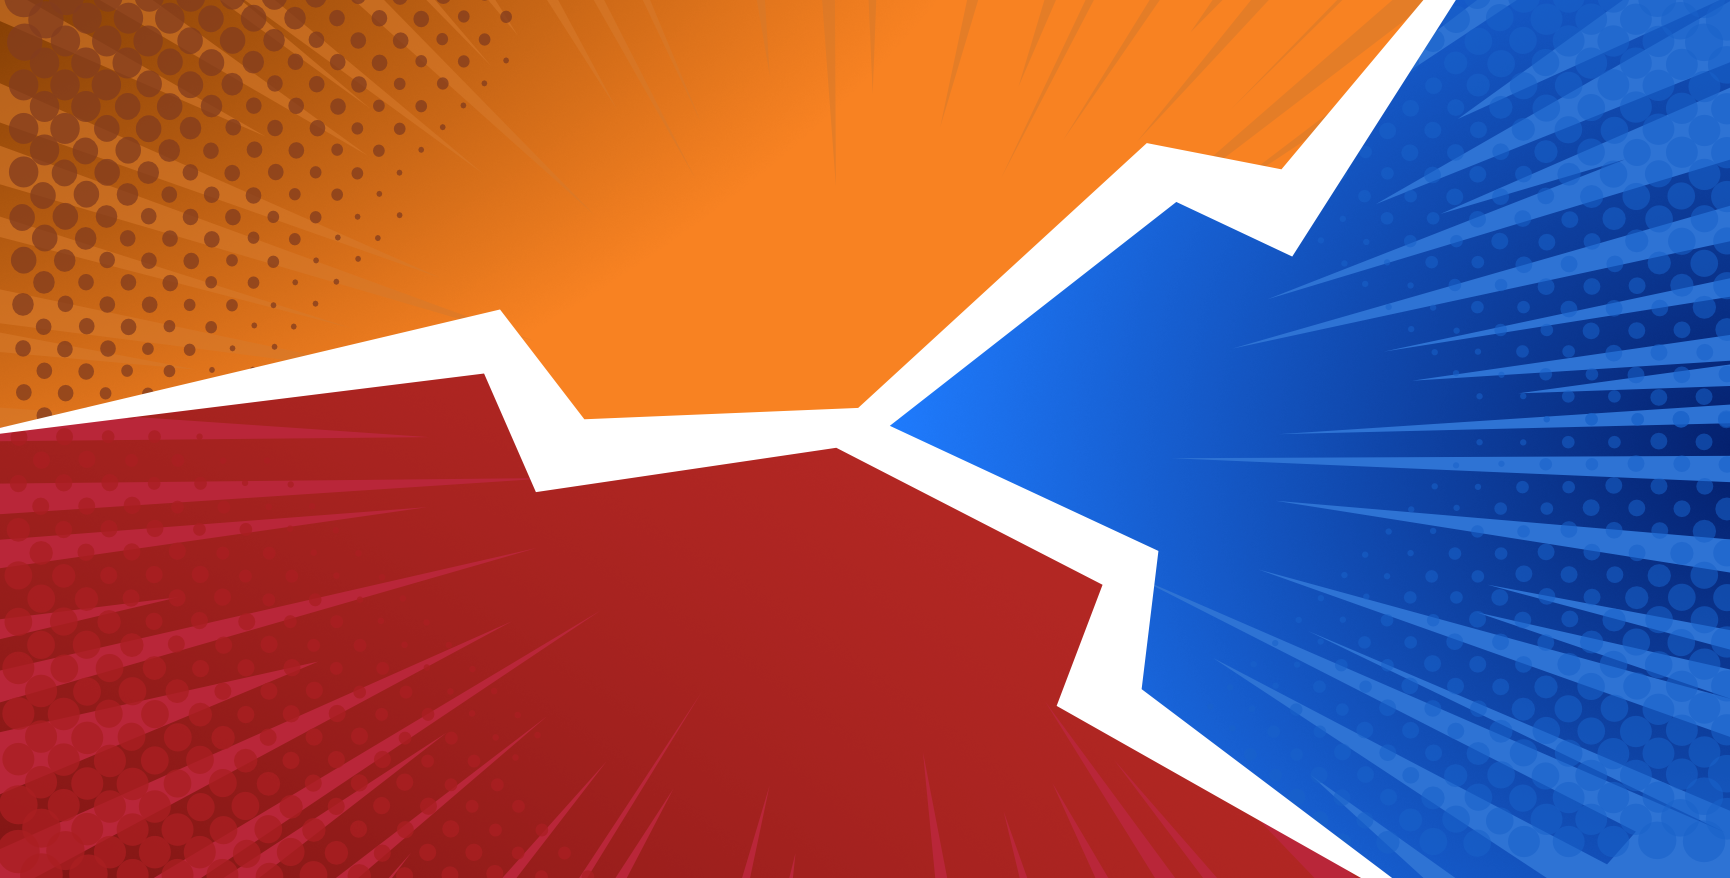
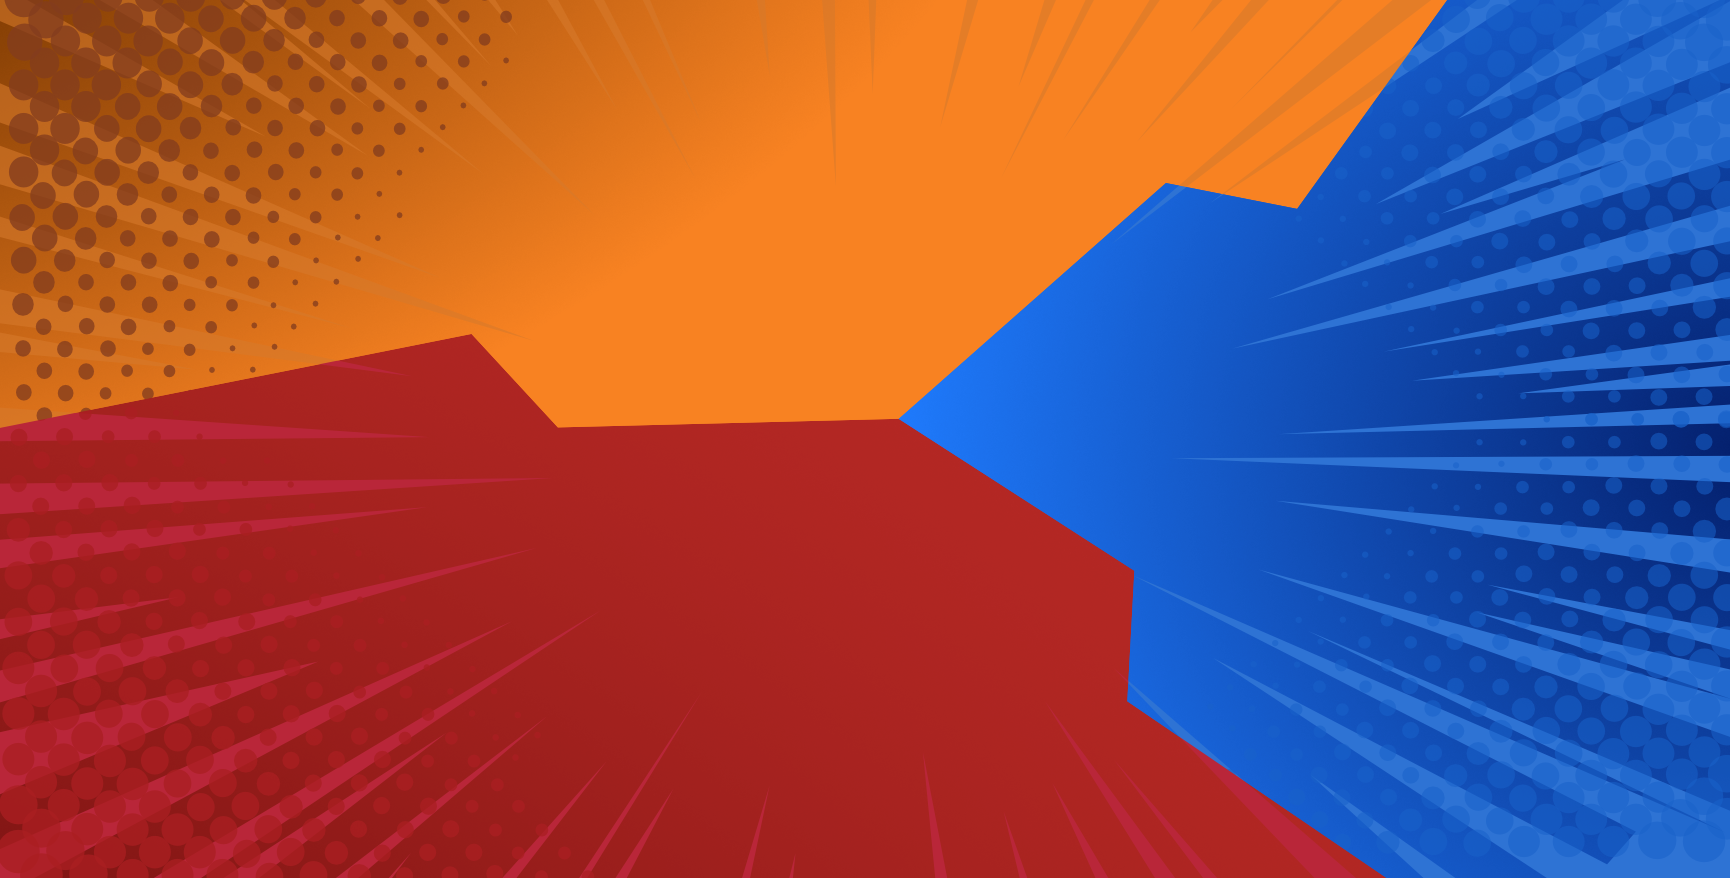
Add news Bg without lightening/slash

Changed region(s): [[0.0, 0.0, 0.8428, 1.0]]

diff --git a/styleThemeChoice.css b/styleThemeChoice.css
@@ -8,8 +8,7 @@
 
 body {
   display: flex;
-  justify-content: center;
-  align-items: center;
+  flex-direction: column;
   min-height: 100vh;
   font-family: 'Fredoka', sans-serif;
   background-image: url(img/Bg-rouge-new.png);
@@ -83,10 +82,10 @@ body {
 .loveImgdebase {
   display: block;
   position: absolute;
-  top: 60%;
-  height: 120%;
+  top: 70%;
+  height: 130%;
   width: 100%;
-  left: 50%;
+  left: 55%;
   transform-style: preserve-3d;
   transform: translate(-50%, -50%);
   z-index: 2;
@@ -188,7 +187,7 @@ body {
 .friendshipImgPos3 {
   display: block;
   position: absolute;
-  top: 60%;
+  top: 80%;
   height: 90%;
   width: 80%;
   left: 50%;
@@ -206,23 +205,40 @@ body {
   body {
     background-image: url(img/Bg-rouge-new-deskstop.png);
     background-size: cover;
+    display: flex;
   }
 
   .choiceCategories {
     font-size: 40px;
-    margin: 0px 20px 0px 20px;
   }
 
   .arrowLeft,
   .arrowRight {
-    width: 80px;
-    height: 80px;
+    width: 50px;
+    height: 50px;
     background: #27233a;
     border-radius: 50%;
   }
 
   .txtContainer {
-    font-size: 40px;
+    font-size: 30px;
+  }
+
+  .mainContainer {
+    display: flex;
+    justify-content: center;
+    align-items: center;
+  }
+
+  .sliderContainer {
+    display: flex;
+    align-items: center;
+    width: 40%;
+    flex-direction: row;
+  }
+
+  .choiceCategories {
+    font-size: 25px;
   }
 
   /*PARTIE CHANGEMENT PERSO*/
@@ -232,9 +248,9 @@ body {
   .loveImgdebase {
     display: block;
     position: absolute;
-    top: 100%;
+    top: 90%;
     height: 150%;
-    width: 50%;
+    width: 25%;
     left: 50%;
     transform-style: preserve-3d;
     transform: translate(-50%, -50%);
@@ -246,10 +262,10 @@ body {
     display: block;
     position: absolute;
     top: 30%;
-    height: 70%;
-    width: 25%;
+    height: 80%;
+    width: 15%;
     transform-style: preserve-3d;
-    left: 0;
+    left: 30%;
     z-index: 1;
     transition: 2s;
   }
@@ -273,20 +289,21 @@ body {
     display: block;
     position: absolute;
     top: 30%;
-    height: 70%;
-    width: 50%;
-    right: 0;
+    height: 60%;
+    width: 20%;
+    right: 20%;
     transform-style: preserve-3d;
     z-index: 1;
     transition: 1s;
+    pointer-events: none;
   }
 
   .jobImgPos2 {
     display: block;
     position: absolute;
     top: 100%;
-    height: 120%;
-    width: 90%;
+    height: 100%;
+    width: 30%;
     left: 50%;
     transform-style: preserve-3d;
     transform: translate(-50%, -50%);
@@ -299,7 +316,7 @@ body {
     position: absolute;
     top: 30%;
     height: 70%;
-    width: 50%;
+    width: 20%;
     left: 0;
     transform-style: preserve-3d;
     z-index: 1;
@@ -312,13 +329,14 @@ body {
   .friendImgPosdebase {
     display: block;
     position: absolute;
-    top: 40%;
+    top: 35%;
     height: 65%;
-    width: 35%;
+    width: 15%;
     transform-style: preserve-3d;
-    left: 0;
+    left: 20%;
     z-index: 1;
     transition: 1s;
+    pointer-events: none;
   }
 
   .friendshipImgPos2 {
@@ -327,9 +345,9 @@ body {
     top: 40%;
     top: 30%;
     height: 75%;
-    width: 35%;
+    width: 15%;
     transform-style: preserve-3d;
-    right: 0;
+    right: 25%;
     z-index: 1;
     transition: 1s;
   }
@@ -346,4 +364,11 @@ body {
     z-index: 2;
     transition: 1s;
   }
+}
+
+.themeChoiceSection {
+  display: flex;
+  flex-direction: column;
+  justify-content: center;
+  align-items: center;
 }

diff --git a/themeChoice.html b/themeChoice.html
@@ -4,11 +4,37 @@
     <meta charset="UTF-8" />
     <meta http-equiv="X-UA-Compatible" content="IE=edge" />
     <meta name="viewport" content="width=device-width, initial-scale=1.0" />
+        <link rel="stylesheet" href="style.css" />
     <link rel="stylesheet" href="styleThemeChoice.css" />
     <title>Carroussel</title>
   </head>
   <body>
-    <div class="mainContainer">
+
+    <nav class="navbar" role="navigation">
+      <div class="navbar__logo">
+        <h1>You&Me</h1>
+        <img class="cple" src="image/cple.png" alt="image-couple" />
+      </div>
+      <ul class="navbar__links">
+        <li class="navbar__link first">
+          <a href="index.html">Home</a>
+        </li>
+        <li class="navbar__link second">
+          <a href="themeChoice.html">Try new mode</a>
+        </li>
+        <li class="navbar__link third">
+          <a href="aboutUs.html">About us</a>
+        </li>
+        <li class="navbar__link four">
+          <a href="contact.html">Contact</a>
+        </li>
+      </ul>
+      <button class="burger">
+        <span class="bar"></span>
+      </button>
+    </nav>
+
+    <div class="mainContainer displayNone">
       <p class="txtContainer">
         Intéressé par vos relations amicales ? <br> Professionnelles ? Amoureuses ?
       </p>
@@ -56,7 +82,7 @@
           alt="Grapefruit slice atop a pile of other slices"
         /></div>
     </div>
-    <script src="main.js"></script>
     <script src="scriptThemeChoice.js"></script>
+    <script src="menuBurger.js"></script>
   </body>
 </html>

diff --git a/scriptThemeChoice.js b/scriptThemeChoice.js
@@ -116,16 +116,16 @@ precedant.addEventListener('click', slidesuivante);
 
 const jobChoice = document.getElementById('jobChoice');
 const loveChoice = document.getElementById('loveChoice');
-const friendChoice = document.getElementById('card friend');
+const friendChoice = document.getElementById('friendChoice');
 jobChoice.addEventListener('click', () => {
   localStorage.setItem('theme', 'job');
-  window.location.href = 'https://twitter.com/';
+  window.location.href = 'IdentificationWork.html';
 });
 loveChoice.addEventListener('click', () => {
   localStorage.setItem('theme', 'love');
-  window.location.href = 'https://www.facebook.com/';
+  window.location.href = 'IdentifiicationLove.html';
 });
 friendChoice.addEventListener('click', () => {
   localStorage.setItem('theme', 'friend');
-  window.location.href = 'https://www.google.com/';
+  window.location.href = 'IdentificationFriends.html';
 });
